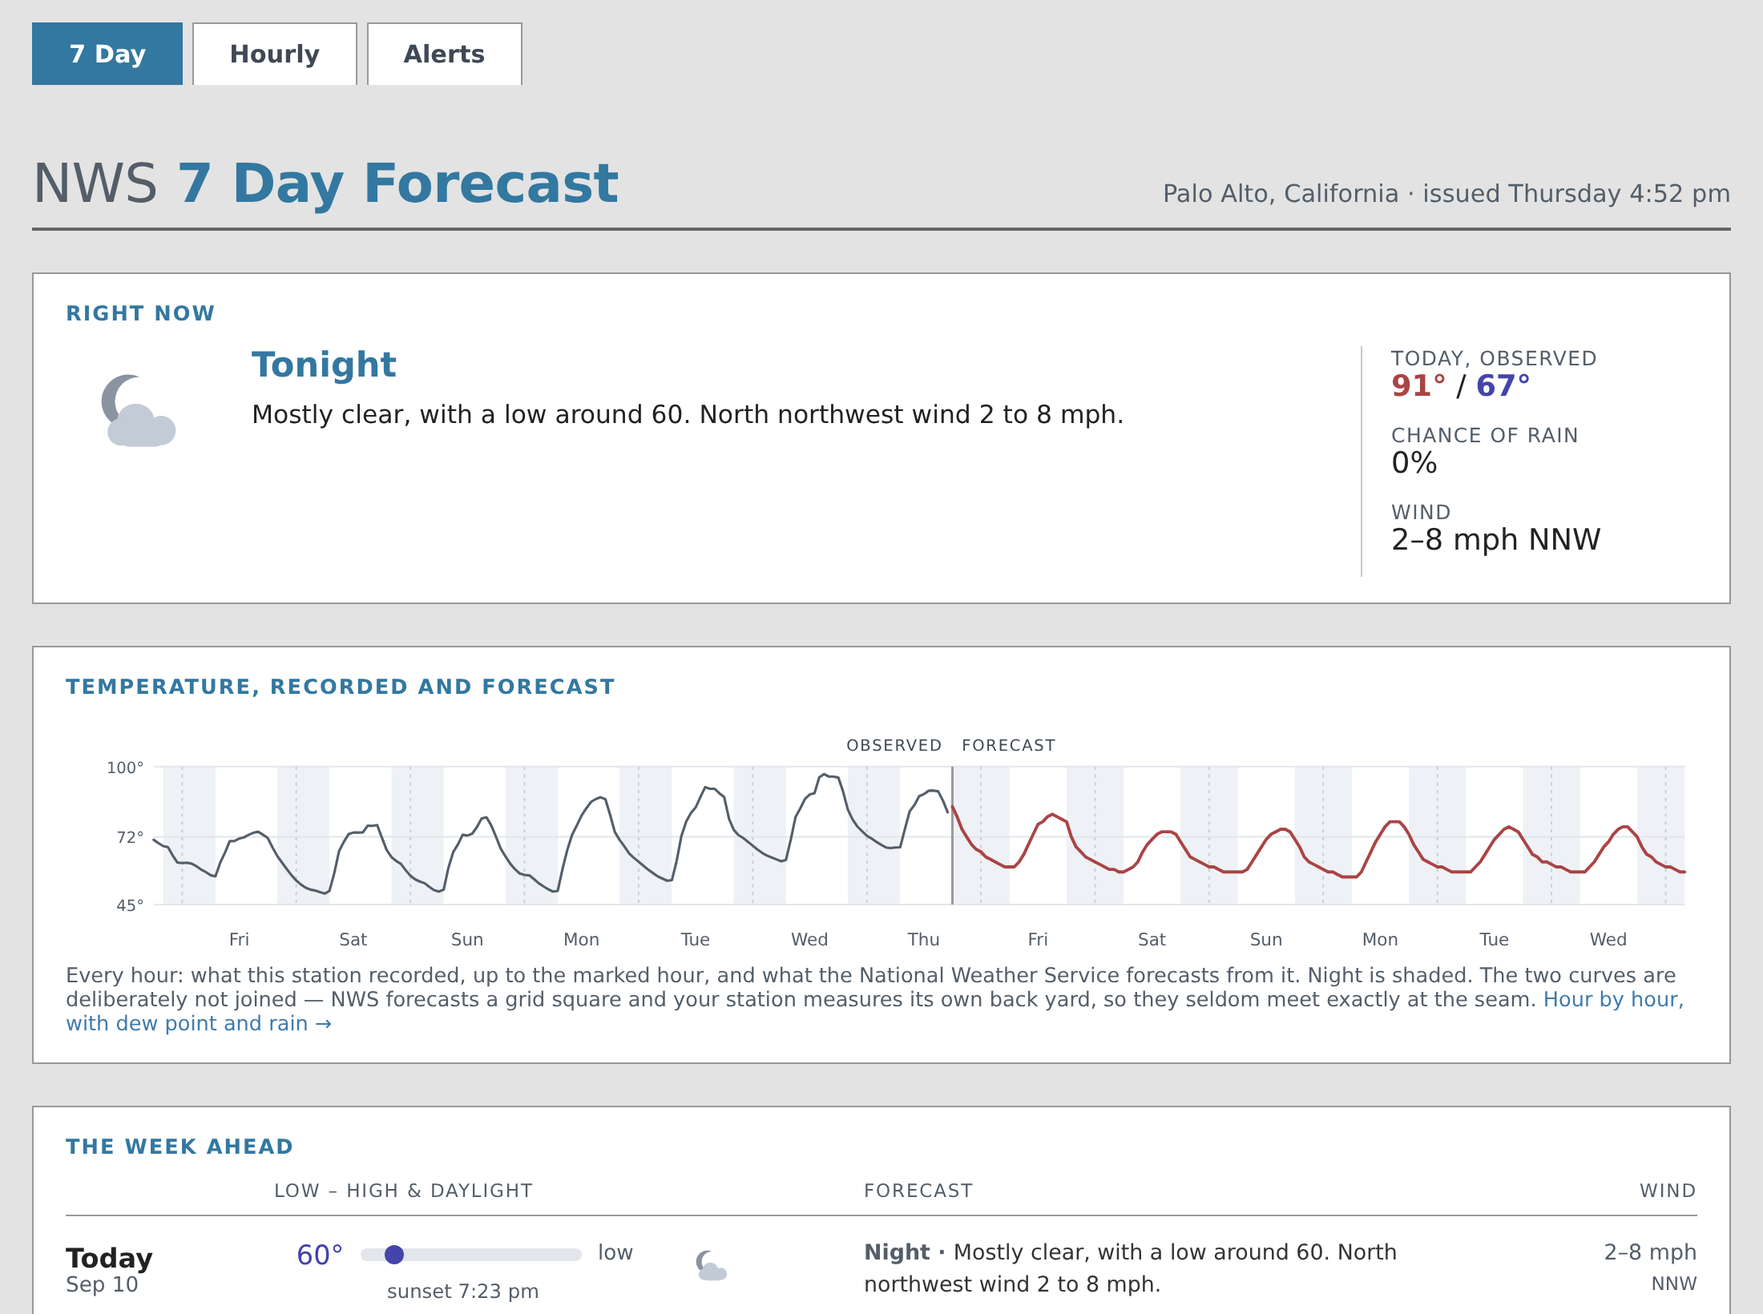
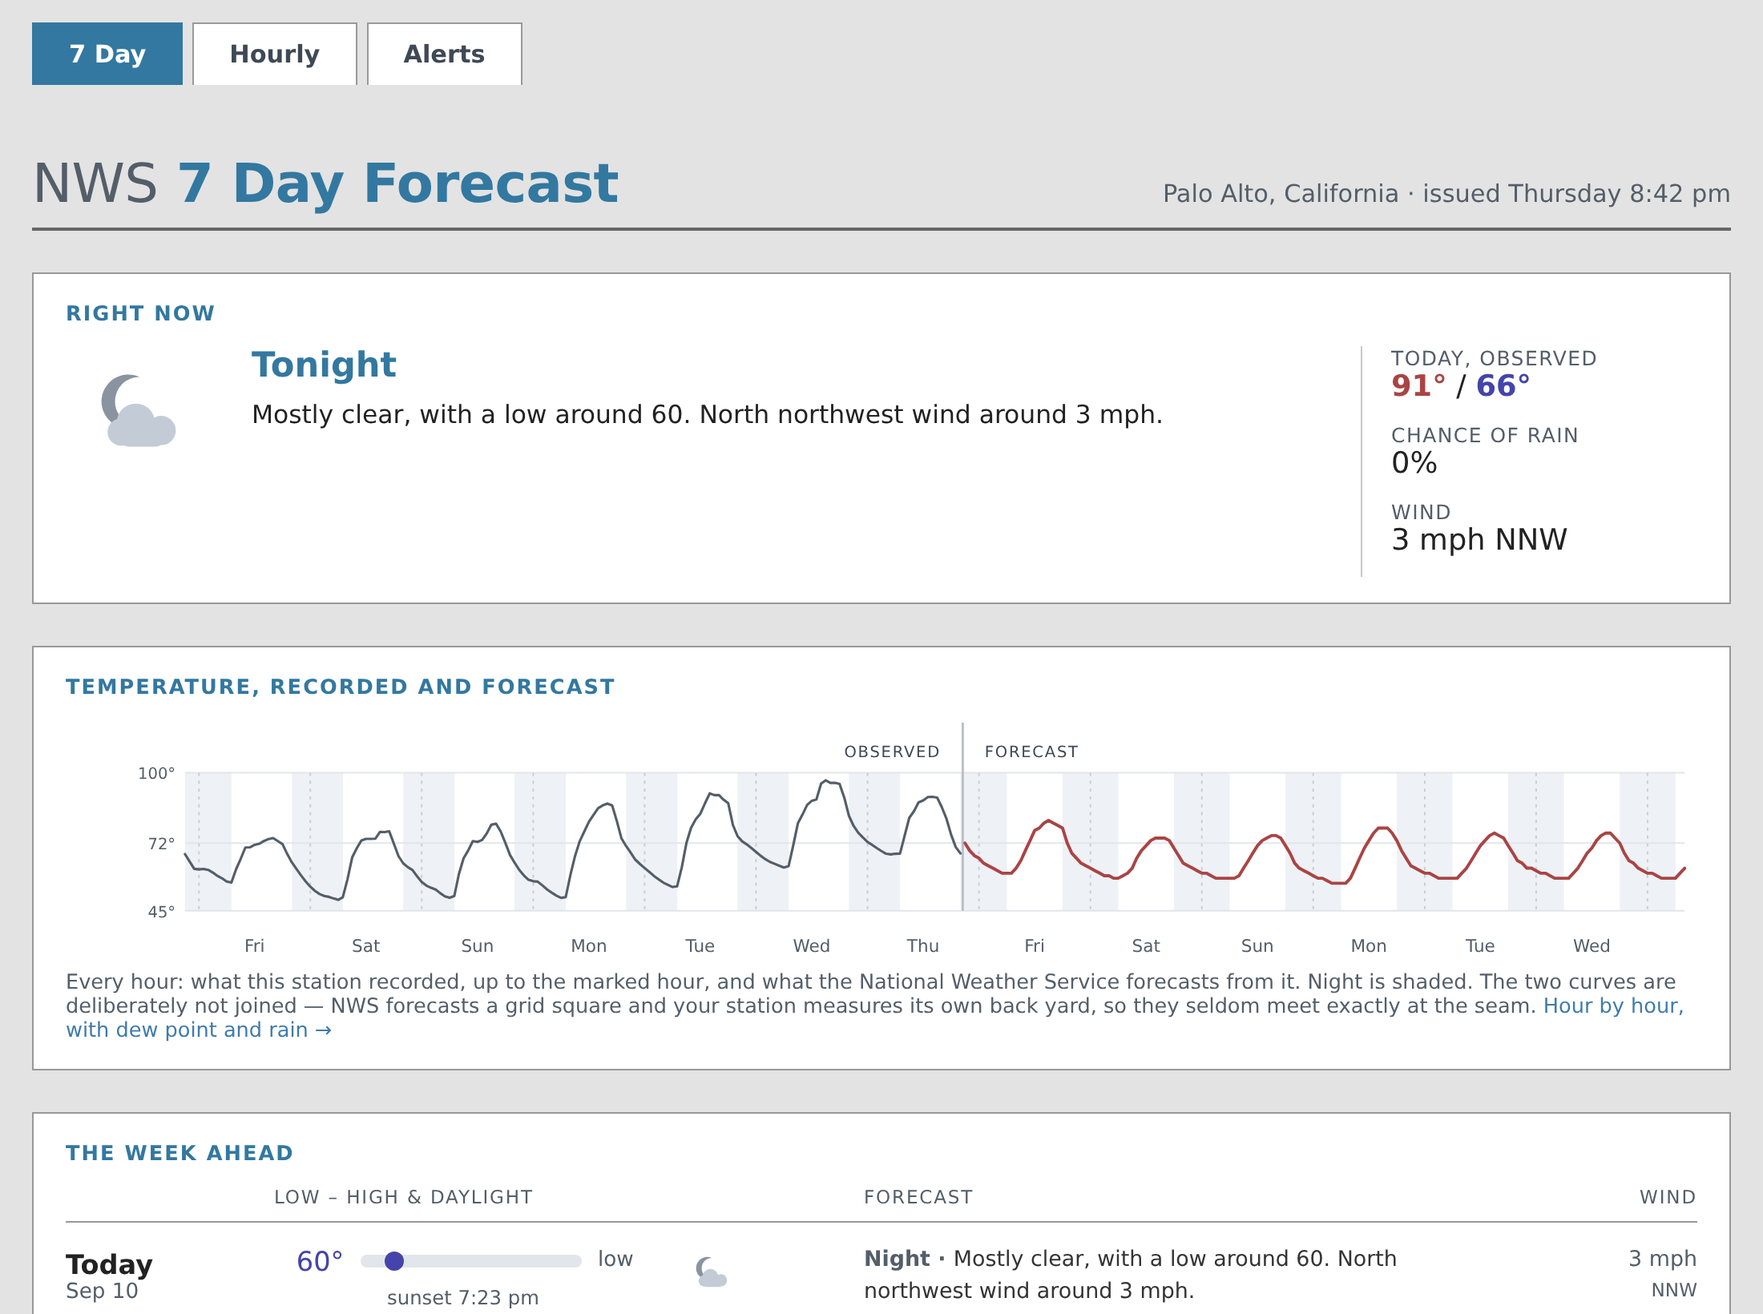
weewx-nws 6.1.1: fix the chart's dividing rule, its clipped hundred-degree axis, and a MySQL binding taking weewxd down with it.

diff --git a/skins/nws/css/nws.css b/skins/nws/css/nws.css
@@ -208,7 +208,10 @@
 .fc svg.chart .aline{fill:none;stroke:var(--fc-muted);stroke-width:1.6;
                      stroke-linejoin:round;stroke-linecap:round}
 .fc svg.chart .adot{fill:var(--fc-muted)}
-.fc svg.chart .seam{stroke:var(--fc-line);stroke-width:1.5}
+/* --fc-axis, not --fc-line: the rule runs the full height of the chart
+   including the label band, which reads strongly enough without the
+   weight of the page's most prominent structural line. */
+.fc svg.chart .seam{stroke:var(--fc-axis);stroke-width:1.5}
 .fc svg.chart .dline{fill:none;stroke:var(--fc-dew);stroke-width:1.6;
                      stroke-dasharray:4 3;stroke-linejoin:round}
 .fc svg.chart .parea{fill:var(--fc-rain);opacity:.8}

diff --git a/bin/user/nwsskin.py b/bin/user/nwsskin.py
@@ -436,14 +436,33 @@ class NWSSkin(SearchList):
     # Room to the left of the plot for the y-axis labels, and it is set by the
     # NARROWEST screen, not the widest.  SVG text is in USER UNITS, so the
     # stylesheet scales the axis labels UP as the chart is squeezed -- to 26
-    # units below 620px -- and at that size "-10&deg;" is about 46 units wide
-    # against the 6 units of clearance the labels are drawn with.  A gutter
-    # sized for the desktop's 10-unit type does not clip the label, it clips
-    # the DIGITS: a phone showed "0&deg;, 7&deg;, 5&deg;" for an axis reading
-    # 90, 67 and 45, which is not a cosmetic failure but a wrong chart.  The
-    # rain strip's "100%" is wider still and would want 66 -- but the
-    # stylesheet hides those below 620px, and above it they are 17 units.
-    PADL = 56
+    # units below 620px.  A gutter sized for the desktop's 10-unit type does
+    # not clip the label, it clips the DIGITS: a phone showed "0&deg;, 7&deg;,
+    # 5&deg;" for an axis reading 90, 67 and 45, which is not a cosmetic
+    # failure but a wrong chart.
+    #
+    # MEASURED in a browser at 26 units rather than estimated, because the
+    # estimate was wrong twice: two digits and a degree sign come to 46.0
+    # units, THREE digits to 62.5.  The governing label is "100&deg;" -- an
+    # ordinary summer afternoon here -- not the "-10&deg;" the first fix sized
+    # for; a hundred is wider than a minus sign and two digits.  A three-digit
+    # NEGATIVE would want more still, and is not reachable: the lowest
+    # temperature ever recorded in the United States is -80F.
+    #
+    # The rain strip's "100%" is the same width, and the stylesheet hides it
+    # below 620px; above that it is 17 units and fits easily.
+    #
+    # 76 rather than the 68.5 that measurement alone calls for, and the extra
+    # is NOT slack for antialiasing.  62.5 was measured in DejaVu Sans, which
+    # is what this machine substitutes -- the stylesheet asks for Open Sans
+    # first and does not have it.  A reader's machine may substitute something
+    # else, and the glyph advances differ by more than a rounding error
+    # between the candidates (DejaVu's digits are the widest of the usual
+    # three, Arial's the narrowest).  So the margin is absorbing a DIFFERENT
+    # TYPEFACE, not a fraction of a pixel, and 76 leaves 7.5 units -- room for
+    # a substitute 12% wider than the one measured here.  It costs 6 units of
+    # plot width out of 1040.
+    PADL = 76
 
     @staticmethod
     def _geom(hours: List[Dict[str, Any]], x0: float, x1: float):
@@ -612,10 +631,25 @@ class NWSSkin(SearchList):
 
     # A seam label is only drawn with this much plot on its side of the seam.
     # A station two hours old still gets its seam LINE; what it does not get
-    # is the word "Observed" hanging off the left edge of the chart.  Sized,
-    # like PADL above, for the largest type the stylesheet ever gives it: at
-    # 22 units "OBSERVED" runs about 125 units wide with its letter-spacing.
+    # is the word "Observed" hanging off the edge of the chart.
+    #
+    # MEASURED, like PADL: at the phone's 22 units "Observed" advances 135.5
+    # and "Forecast" 132.6.  An earlier comment here estimated 125, which was
+    # 10 short -- the same guess-instead-of-measure that clipped the axis.
+    #
+    # 132 is nonetheless the right threshold, and not by luck: it is measured
+    # from x0, while the label may extend on past it into the GUTTER, which at
+    # the label band's height is empty (the axis labels sit lower, inside the
+    # plot).  At the limit the label's far edge lands at x0 + 132 - 14 - 135.5,
+    # which is 58 -- comfortably on the canvas.  The test is conservative by
+    # this much, so a label is sometimes dropped that would have fitted; that
+    # is the safe direction and not worth the arithmetic to reclaim.
     SEAM_LABEL_ROOM = 132
+
+    # Clearance between the rule and each label.  14, not 6: the rule now runs
+    # up THROUGH the label band (see sparkline), and it can only divide the two
+    # words if there is room for it to be seen between them.
+    SEAM_LABEL_GAP = 14
 
     @staticmethod
     def sparkline(hours: List[Dict[str, Any]],
@@ -648,11 +682,14 @@ class NWSSkin(SearchList):
         seam_i = len(past)
         W = 1040
         # The label band above the plot exists only when there is a seam to
-        # label, so the degraded chart keeps its old proportions exactly.  Its
-        # depth is the seam labels' own: at 22 units their ascenders reach 16
-        # above the baseline, which a shallower band would clip off the top of
-        # the viewBox.
-        LY, H, y0 = 20, (150 if seam_i else 132), (30 if seam_i else 12)
+        # label, so the degraded chart keeps its old proportions exactly.
+        #
+        # Its depth is set by the seam RULE, not by the letters: the rule
+        # starts a full label-height (22, the phone's size) above the
+        # baseline so that it clears the tops of the letters it divides, so
+        # LY must be at least 22 or the rule begins off the top of the
+        # viewBox.  LY 24 puts its top at 2.
+        LY, H, y0 = 24, (154 if seam_i else 132), (34 if seam_i else 12)
         x0, x1, y1 = NWSSkin.PADL, W - 8, y0 + 88
         px = NWSSkin._geom(series, x0, x1)
         # Observed hours can be empty; forecast hours cannot (points() drops
@@ -679,15 +716,33 @@ class NWSSkin(SearchList):
                               % (px(i), H - 6, lt.strftime('%a')))
         seam = ''
         if seam_i:
-            sx = px(seam_i)
+            # BETWEEN the two points, not on one of them.  Drawn at px(seam_i)
+            # the rule touches the first forecast point while standing a full
+            # hour clear of the last observed one, so the gap reads as a
+            # mistake on one side only.  The boundary is between the last
+            # reading and the first prediction; the line belongs between them,
+            # clear of both by the same amount.
+            sx = (px(seam_i - 1) + px(seam_i)) / 2.0
+            # THE RULE RUNS THE FULL HEIGHT, label band included.  Stopped at
+            # the top of the plot it left the two words side by side with
+            # nothing between them, and at this size they read as one phrase --
+            # "OBSERVED FORECAST" -- which is worse than the bare line they
+            # were added to explain.  The line is what makes them two labels.
+            #
+            # The top is sized by the PHONE's 22-unit labels, not the desktop's
+            # 10: sized by the smaller one the rule starts below the top of the
+            # phone's letters and stops dividing them.  Same rule as PADL above
+            # -- geometry in user units is sized by the LARGEST type the
+            # stylesheet ever gives it, not by the one in front of you.
             seam = ('<line x1="%.1f" y1="%d" x2="%.1f" y2="%d" class="seam"/>'
-                    % (sx, y0, sx, y1))
+                    % (sx, LY - 22, sx, y1))
+            gap = NWSSkin.SEAM_LABEL_GAP
             if sx - x0 >= NWSSkin.SEAM_LABEL_ROOM:
                 seam += ('<text x="%.1f" y="%d" class="striplab seamlab" '
-                         'text-anchor="end">Observed</text>' % (sx - 6, LY))
+                         'text-anchor="end">Observed</text>' % (sx - gap, LY))
             if x1 - sx >= NWSSkin.SEAM_LABEL_ROOM:
                 seam += ('<text x="%.1f" y="%d" class="striplab seamlab">Forecast</text>'
-                         % (sx + 6, LY))
+                         % (sx + gap, LY))
         # Emitted only when there is something to draw: an empty d= would put
         # a <path> that draws nothing into every fresh install's page.
         recorded = NWSSkin._path(past, px, py, 'outTemp', gaps=True)

diff --git a/tests/test_nwsskin.py b/tests/test_nwsskin.py
@@ -211,12 +211,26 @@ class TestAxisGutter:
     """
 
     def test_the_gutter_fits_the_widest_label_at_the_largest_type(self):
+        """The widest label is THREE digits and a degree sign -- "100&deg;",
+        an ordinary summer afternoon -- not the "-10&deg;" the first version
+        of this test assumed.  A hundred is wider than a minus sign and two
+        digits, and sizing for the wrong worst case clipped the leading 1 off
+        a real render.
+
+        2.40 is measured, not estimated: at a 26-unit font Chromium reports
+        62.5 user units for "100&deg;" and 46.0 for "72&deg;".  Plus the 6
+        units the labels are drawn clear of the plot.
+        """
         biggest = max(_css_sizes('ylab'))
-        # "-10&deg;": two digits at about 0.55em, a hyphen at 0.33, a degree
-        # sign at 0.4 -- plus the 6 units the labels are drawn clear of the
-        # plot.  Deliberately an estimate against a bound, not a measurement:
-        # what must not happen is the gutter tracking the desktop size.
-        assert NWSSkin.PADL >= biggest * (2 * 0.55 + 0.33 + 0.4) + 6
+        needed = biggest * 2.40 + 6
+        assert NWSSkin.PADL >= needed
+        # And with HEADROOM, because 2.40 is DejaVu Sans -- the font this
+        # machine substitutes for the Open Sans the stylesheet asks for and
+        # does not have.  A reader's machine may substitute something wider.
+        # A gutter that merely FITS the font in front of us is one font away
+        # from clipping again.
+        assert NWSSkin.PADL >= needed * 1.10, (
+            'no headroom for a wider substitute font')
 
     def test_every_chart_uses_it(self):
         """Three charts, one gutter: a fix that reached only the chart the
@@ -371,9 +385,15 @@ class TestTwoWeekSparkline:
 
     @staticmethod
     def _seam_x(svg):
-        m = re.search(r'<line x1="([\d.]+)" y1="\d+" x2="[\d.]+" y2="\d+" class="seam"/>',
-                      svg)
+        m = re.search(r'<line x1="([\d.]+)" y1="(-?\d+)" x2="[\d.]+" y2="(-?\d+)" '
+                      r'class="seam"/>', svg)
         return float(m.group(1)) if m else None
+
+    @staticmethod
+    def _seam_ys(svg):
+        m = re.search(r'<line x1="[\d.]+" y1="(-?\d+)" x2="[\d.]+" y2="(-?\d+)" '
+                      r'class="seam"/>', svg)
+        return (int(m.group(1)), int(m.group(2))) if m else None
 
     @staticmethod
     def _spec(svg):
@@ -417,14 +437,42 @@ class TestTwoWeekSparkline:
         assert 'class="seam"' in svg
         assert '>Observed</text>' in svg and '>Forecast</text>' in svg
 
-    def test_the_seam_falls_where_the_forecast_begins(self):
-        """The join is at the forecast's first hour, which is the only place
-        it can be drawn honestly."""
+    def test_the_seam_falls_BETWEEN_the_two_halves(self):
+        """Not ON the first forecast point.  Drawn there the rule touches the
+        forecast curve while standing a full hour clear of the last observed
+        one, and the gap then reads as a mistake on one side only.  The
+        boundary is between the last reading and the first prediction."""
         past = week_of_obs(48)
         svg = NWSSkin.sparkline(day_of_points(), past)
         x0, x1 = float(NWSSkin.PADL), 1040 - 8
         n = 48 + 24 - 1
-        assert abs(self._seam_x(svg) - (x0 + (x1 - x0) * 48 / n)) < 0.1
+        step = (x1 - x0) / n
+        last_observed = x0 + step * 47
+        first_forecast = x0 + step * 48
+        sx = self._seam_x(svg)
+        assert abs(sx - (last_observed + first_forecast) / 2) < 0.1
+        # Equidistant from both, which is the whole point.  The tolerance is
+        # 0.11 rather than 0, because the coordinate is emitted to one decimal
+        # -- up to 0.05 of rounding, which this difference sees twice.
+        assert abs((sx - last_observed) - (first_forecast - sx)) < 0.11
+
+    def test_the_seam_rule_divides_the_two_labels(self):
+        """It runs the FULL height, label band included.  Stopped at the top
+        of the plot it left the two words side by side with nothing between
+        them, and at this size they read as one phrase -- "OBSERVED FORECAST"
+        -- which is worse than the bare line they were added to explain."""
+        svg = NWSSkin.sparkline(day_of_points(), week_of_obs(48))
+        top, bottom = self._seam_ys(svg)
+        spec = json.loads(re.search(r"data-chart='([^']*)'", svg).group(1))
+        baseline = float(re.search(
+            r'<text x="[\d.]+" y="(\d+)" class="striplab seamlab"', svg).group(1))
+        biggest = max(_css_sizes('striplab'))
+        # Starts above the tallest letters the stylesheet ever draws...
+        assert top <= baseline - biggest
+        # ...and still on the canvas, which LY - 22 was not until the band
+        # was deepened to hold it.
+        assert top >= 0
+        assert bottom == spec['y1']
 
     def test_the_two_halves_are_separate_strokes_that_are_not_joined(self):
         """NWS forecasts a grid square and the station measures its own back
@@ -434,7 +482,7 @@ class TestTwoWeekSparkline:
         svg = NWSSkin.sparkline(day_of_points(), week_of_obs(48))
         sx = self._seam_x(svg)
         assert self._last_xy(self._d(svg, 'aline'))[0] < sx
-        assert abs(self._first_xy(self._d(svg, 'tline'))[0] - sx) < 0.1
+        assert self._first_xy(self._d(svg, 'tline'))[0] > sx
 
     def test_each_half_is_drawn_from_its_own_rows(self):
         """A stroke built from the wrong slice would still draw a plausible

diff --git a/tests/test_nws_service.py b/tests/test_nws_service.py
@@ -393,6 +393,48 @@ class TestStaleSchema:
         assert db_count(nws, ForecastType.ALERTS) == 1, 'the rows were destroyed'
 
 
+class TestNonSqliteBinding:
+    """weewx-nws is SQLite-only, and says so where the failure happens.
+
+    This schema declares eighteen STRING columns and weedb emits a declared
+    type verbatim (weedb.mysql has no create_table of its own), so on MySQL
+    the first CREATE TABLE is a syntax error on a type MySQL does not have.
+    WeeWX's own schemas never say STRING, which is why nothing else trips over
+    it.  Before the check the operator got that raw syntax error -- and since
+    a service constructor that raises takes weewxd with it, their whole
+    station stopped rather than just this extension.
+    """
+
+    def _config(self, tmp_path, driver):
+        read_dir = str(tmp_path / 'forecasts')
+        os.mkdir(read_dir)
+        write_forecast_files(read_dir, alerts=make_alerts_json(make_alert()))
+        config = make_config(str(tmp_path / 'nws.sdb'), read_dir)
+        config['DatabaseTypes']['SQLite']['driver'] = driver
+        return config
+
+    def test_a_non_sqlite_binding_is_refused_by_name(self, tmp_path, caplog):
+        config = self._config(tmp_path, 'weedb.mysql')
+        with caplog.at_level(logging.ERROR):
+            nws = NWS(StdEngine(config), config)
+        assert 'needs a SQLite database' in caplog.text
+        assert 'weedb.mysql' in caplog.text
+        assert 'data_binding' in caplog.text          # says what to change
+        # Inert, not fatal: weewxd goes on running the station.
+        assert not hasattr(nws, 'cfg')
+
+    def test_it_does_not_reach_the_create(self, tmp_path):
+        """The point of checking early: no table, no cryptic syntax error."""
+        config = self._config(tmp_path, 'weedb.mysql')
+        NWS(StdEngine(config), config)
+        assert not os.path.exists(str(tmp_path / 'nws.sdb'))
+
+    def test_sqlite_is_unaffected(self, tmp_path):
+        config = self._config(tmp_path, 'weedb.sqlite')
+        nws = NWS(StdEngine(config), config)
+        assert nws.cfg is not None
+
+
 class TestReadFromDir:
     """Fleet mode reads forecasts from a directory instead of from NWS, and
     since 6.1 they get the same sanity check a reply from NWS gets.

diff --git a/bin/user/nws.py b/bin/user/nws.py
@@ -74,7 +74,7 @@ except ImportError:
 
 log = logging.getLogger(__name__)
 
-WEEWX_NWS_VERSION = "6.1"
+WEEWX_NWS_VERSION = "6.1.1"
 
 def reraise_if_terminate(e: BaseException) -> None:
     """weewxd stops by raising Terminate from its SIGTERM signal handler --
@@ -266,6 +266,27 @@ class NWS(StdService):
             self.config_dict['DataBindings'],
             self.config_dict['Databases'],
             self.data_binding)
+
+        # SQLite only, and said HERE so the failure names its cause.
+        #
+        # This schema declares eighteen STRING columns, and weedb emits a
+        # declared type verbatim -- weedb.mysql has no create_table of its own
+        # -- so on MySQL the very first CREATE TABLE is a syntax error on a
+        # type MySQL does not have.  (WeeWX's own schemas never say STRING,
+        # which is why nothing else trips over this.)  Without this check the
+        # operator gets that raw syntax error, and because a service
+        # constructor that raises takes weewxd down with it, their whole
+        # station stops rather than just this extension.
+        #
+        # So: refuse early, say what to do, and leave weewxd running.
+        driver = self.dbm_dict.get('database_dict', {}).get('driver')
+        if driver != 'weedb.sqlite':
+            log.error("weewx-nws needs a SQLite database, but binding '%s' uses "
+                      "%s.  Point [NWS] data_binding at a SQLite database (the "
+                      "installer's nws_binding/nws_sqlite entries are one).  "
+                      "The extension is doing nothing until then."
+                      % (self.data_binding, driver or 'an unknown driver'))
+            return
 
         # [possibly] initialize the database
         dbmanager = engine.db_binder.get_manager(data_binding=self.data_binding, initialize=True)

diff --git a/install.py b/install.py
@@ -114,7 +114,7 @@ def loader():
 class NWSInstaller(ExtensionInstaller):
     def __init__(self):
         super(NWSInstaller, self).__init__(
-            version="6.1",
+            version="6.1.1",
             name='nws',
             description='Fetch NWS Hourly Forecast.',
             author="John A Kline",

diff --git a/docs/troubleshooting.md b/docs/troubleshooting.md
@@ -109,6 +109,22 @@ INFO user.nws: request_urls: 404, Data Unavailable For Requested Point, ...
   source that asks too often — which is also why a `User-Agent` that identifies you is
   worth setting, since it gives them someone to contact instead.
 
+## `weewx-nws needs a SQLite database`
+
+```
+ERROR user.nws: weewx-nws needs a SQLite database, but binding 'nws_binding' uses weedb.mysql.  Point [NWS] data_binding at a SQLite database …
+```
+
+weewx-nws stores its forecasts in a SQLite database of its own and cannot use any
+other kind: its schema declares `STRING` columns, which WeeWX passes to the database
+verbatim and MySQL has no such type.  Point `[NWS] data_binding` back at a SQLite
+binding — the `nws_binding` / `nws_sqlite` entries the installer writes are one — and
+restart.
+
+The extension does nothing until then, but WeeWX itself goes on running.  Before
+6.1.1 this surfaced as a raw MySQL syntax error while the service was starting, which
+stopped weewxd altogether.
+
 ## `The nws database has an old schema; rebuilding it`
 
 ```

diff --git a/docs/configuration.md b/docs/configuration.md
@@ -120,7 +120,7 @@ down.  Set it to `0` to keep everything for ever.
 
 ## The database
 
-weewx-nws keeps its forecasts in `nws.sdb`, a sqlite database of its own, next to the
+weewx-nws keeps its forecasts in `nws.sdb`, a **SQLite** database of its own, next to the
 weather archive.  The installer writes both halves:
 
 ```ini
